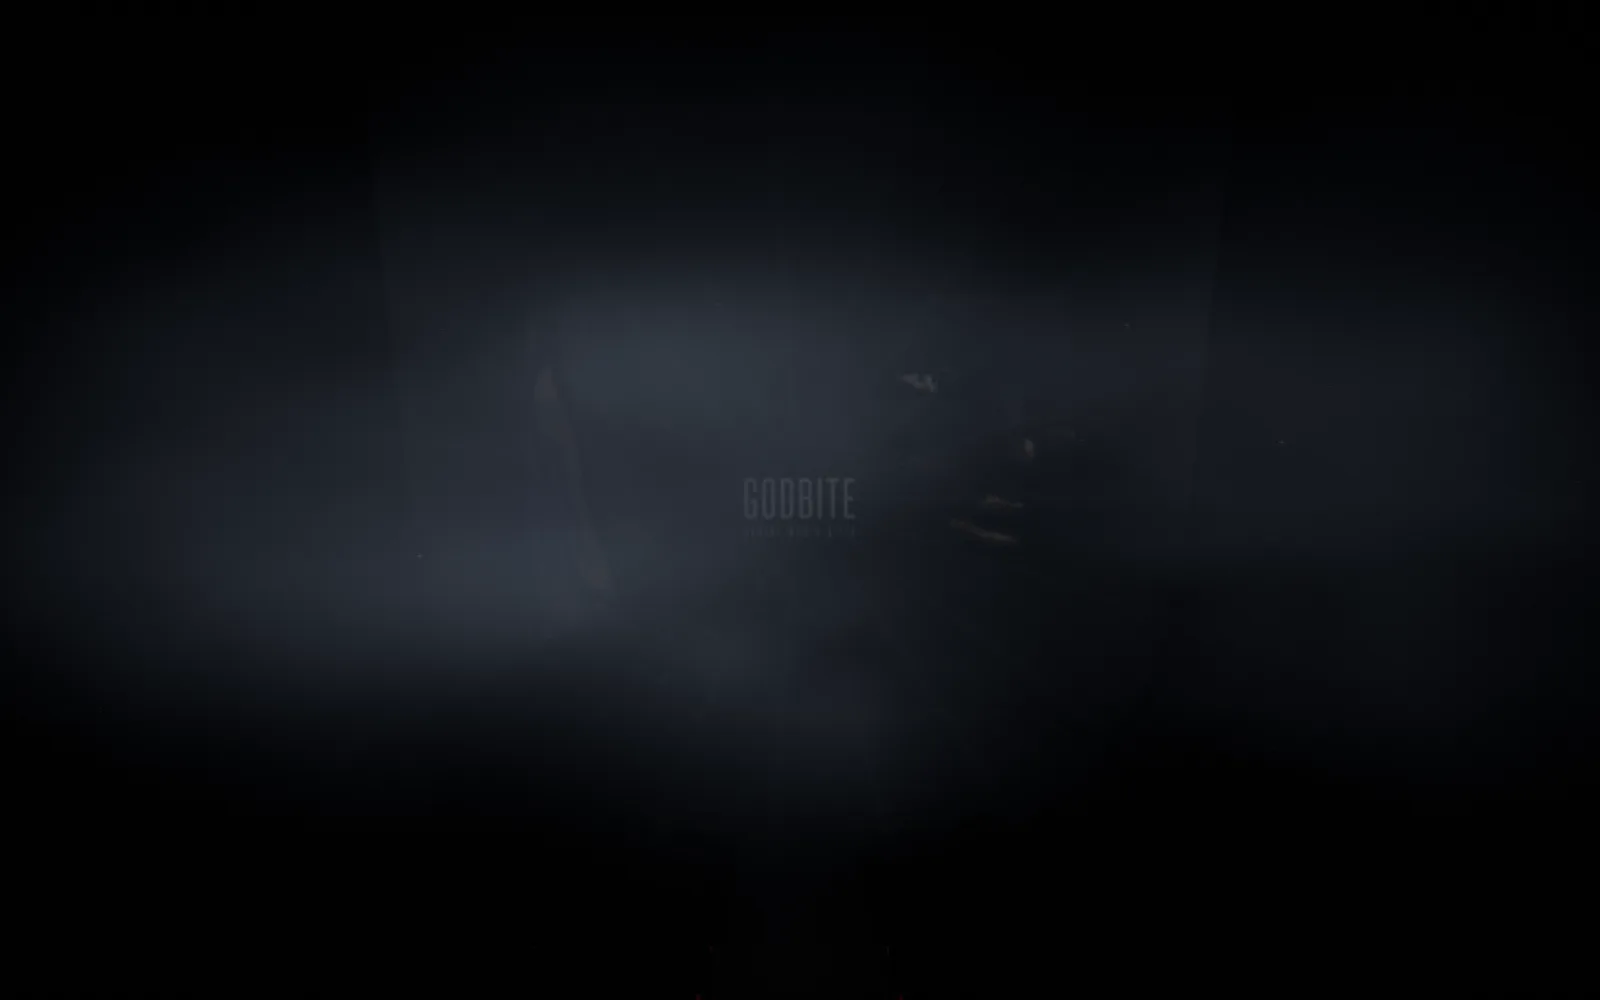
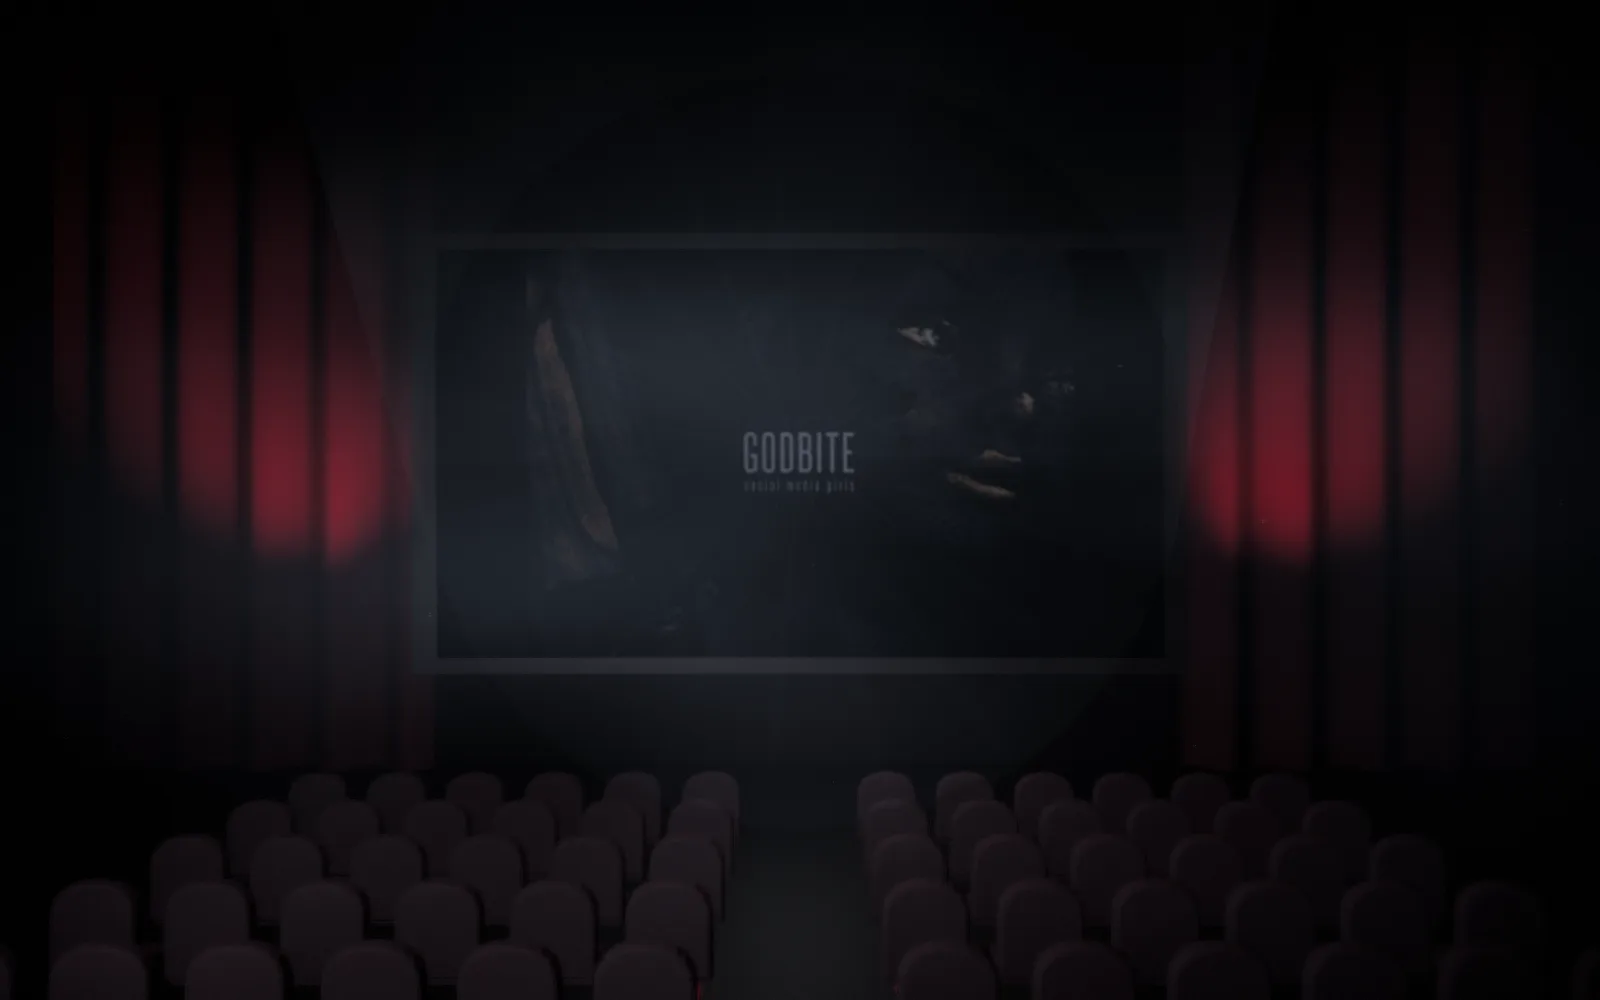
Reveal the cinema and animate the signal threads organically

diff --git a/src/world.ts b/src/world.ts
@@ -44,6 +44,24 @@ const dustFragment = /* glsl */ `
   void main(){float r=length(gl_PointCoord-.5);gl_FragColor=vec4(.67,.72,.82,(1.-smoothstep(.1,.5,r))*vAlpha);}
 `;
 
+const threadVertex = /* glsl */ `
+  uniform float uTime, uPhase, uDrift;
+  varying float vPresence;
+  void main(){
+    vec3 p=position;
+    float travel=p.z*.22+p.x*.14;
+    p.x+=(sin(uTime*.16+uPhase+travel)*.75+sin(uTime*.09+p.y*.21+uPhase)*.42)*uDrift;
+    p.y+=cos(uTime*.13+uPhase*1.3+p.x*.19)*.48*uDrift;
+    p.z+=sin(uTime*.11+uPhase+p.y*.17)*.65*uDrift;
+    vPresence=.76+sin(uTime*.18+uPhase+p.x*.09)*.24;
+    gl_Position=projectionMatrix*modelViewMatrix*vec4(p,1.);
+  }
+`;
+const threadFragment = /* glsl */ `
+  uniform vec3 uColor; uniform float uOpacity; varying float vPresence;
+  void main(){gl_FragColor=vec4(uColor,uOpacity*vPresence);}
+`;
+
 export interface WorldOptions {
   canvas: HTMLCanvasElement;
   onFailure: () => void;
@@ -53,8 +71,8 @@ export class World {
   private renderer: THREE.WebGLRenderer;
   private lens: CinematicLens;
   private ritualGlow = new THREE.PointLight('#b10c2d', 75, 38, 1.7);
-  private cinemaWash = new THREE.SpotLight('#8f122e', 220, 60, .65, 1, 1.8);
-  private screenGlow = new THREE.PointLight('#a0abb7', 40, 40, 1.8);
+  private cinemaWash = new THREE.SpotLight('#a53e52', 780, 60, .95, 1, 1.8);
+  private screenGlow = new THREE.PointLight('#a0abb7', 95, 40, 1.8);
   private scene = new THREE.Scene();
   private camera = new THREE.PerspectiveCamera(44, innerWidth / innerHeight, .1, 210);
   private forest = new THREE.Group();
@@ -270,7 +288,7 @@ export class World {
     frame.position.set(0,7,0);this.cinema.add(frame);
     const screen=new THREE.Mesh(new THREE.PlaneGeometry(16,9),new THREE.MeshBasicMaterial({color:'#6b717b'}));
     screen.position.set(0,7,.2);this.cinema.add(screen);this.screens.push(screen);
-    const curtainMaterial=new THREE.MeshStandardMaterial({color:'#21030d',roughness:.96});
+    const curtainMaterial=new THREE.MeshStandardMaterial({color:'#47111f',roughness:.96});
     for(const x of [-12.4,12.4]){
       const geometry=new THREE.PlaneGeometry(8.4,22,64,1);
       const positions=geometry.attributes.position;
@@ -278,13 +296,19 @@ export class World {
       geometry.computeVertexNormals();
       const curtain=new THREE.Mesh(geometry,curtainMaterial);curtain.position.set(x,8,-.2);this.cinema.add(curtain);
     }
+    // Low side light catches velvet folds without flattening the auditorium.
+    for(const x of [-11.5,11.5]){
+      const glow=new THREE.SpotLight('#bf3654',520,32,.5,1,1.55);
+      glow.position.set(Math.sign(x)*7.8,3.2,4.2);glow.target.position.set(x,8,-.2);
+      this.cinema.add(glow,glow.target);
+    }
     const backWall=new THREE.Mesh(new THREE.PlaneGeometry(40,22),new THREE.MeshStandardMaterial({color:'#0b0608',roughness:1}));
     backWall.position.set(0,8,-.7);this.cinema.add(backWall);
     const shape=new THREE.Shape();
     shape.moveTo(-.44,0);shape.lineTo(.44,0);shape.lineTo(.44,.65);
     shape.quadraticCurveTo(.44,1,0,1);shape.quadraticCurveTo(-.44,1,-.44,.65);shape.closePath();
     const backGeometry=new THREE.ExtrudeGeometry(shape,{depth:.14,bevelEnabled:true,bevelThickness:.05,bevelSize:.05,bevelSegments:2,steps:1,curveSegments:5});
-    const seatsMaterial=new THREE.MeshStandardMaterial({color:'#070408',roughness:.9});
+    const seatsMaterial=new THREE.MeshStandardMaterial({color:'#281019',roughness:.88});
     const backrests=new THREE.InstancedMesh(backGeometry,seatsMaterial,84);
     const cushions=new THREE.InstancedMesh(new THREE.BoxGeometry(.88,.16,.85),seatsMaterial,84);
     const object=new THREE.Object3D();let count=0;
@@ -296,6 +320,9 @@ export class World {
       }
     }
     this.cinema.add(backrests,cushions);
+    const seatRim=new THREE.SpotLight('#a29dac',1050,40,.95,1,1.45);
+    seatRim.position.set(-8,7,25);seatRim.target.position.set(1,1,11);
+    this.cinema.add(seatRim,seatRim.target);
     for(const x of [-1.2,1.2]){
       const aisle=new THREE.Mesh(new THREE.BoxGeometry(.025,.018,23),new THREE.MeshBasicMaterial({color:'#a5293c'}));
       aisle.position.set(x,.02,15);this.cinema.add(aisle);
@@ -306,7 +333,7 @@ export class World {
     const beam=new THREE.Mesh(new THREE.CylinderGeometry(.05,8.5,28,24,1,true),beamMaterial);
     beam.position.set(0,7,14);beam.rotation.x=Math.PI/2;this.cinema.add(beam);
     for(let i=0;i<3;i++){
-      const mist=new THREE.Mesh(new THREE.PlaneGeometry(33,10),this.fogMaterial('#667388',.21));
+      const mist=new THREE.Mesh(new THREE.PlaneGeometry(33,10),this.fogMaterial('#667388',.10));
       mist.position.set(0,6,6+i*5);this.cinema.add(mist);
     }
     return beam;
@@ -322,8 +349,16 @@ export class World {
         points.push(new THREE.Vector3(Math.cos(angle)*radius+(random()-.5)*3,Math.sin(angle)*radius*.6+6,-random()*12));
       }
       const curve=new THREE.CatmullRomCurve3(points);
-      const thread=new THREE.Line(new THREE.BufferGeometry().setFromPoints(curve.getPoints(80)),new THREE.LineBasicMaterial({color:i%4===0?'#a5092c':'#4c5063',transparent:true,opacity:i%4===0?.16:.055}));
-      this.signal.add(thread);
+      const material=new THREE.ShaderMaterial({
+        vertexShader:threadVertex,fragmentShader:threadFragment,transparent:true,depthWrite:false,
+        uniforms:{
+          uTime:{value:0},uPhase:{value:phase},uDrift:{value:.65+random()*.8},
+          uColor:{value:new THREE.Color(i%4===0?'#c22f51':'#b3acb1')},uOpacity:{value:i%4===0?.48:.23},
+        },
+      });
+      const thread=new THREE.Line(new THREE.BufferGeometry().setFromPoints(curve.getPoints(80)),material);
+      thread.frustumCulled=false;
+      this.timeMaterials.push(material);this.signal.add(thread);
     }
     const blade=new THREE.Mesh(new THREE.PlaneGeometry(.065,20),new THREE.MeshBasicMaterial({color:'#dc2442',toneMapped:false}));
     blade.position.set(0,8,-13);this.signal.add(blade);
@@ -412,10 +447,10 @@ export class World {
     const positions=[
       new THREE.Vector3(0,3.1,16),
       new THREE.Vector3(mobile?0:5.5,mobile?4.4:4.8,mobile?-23:-27),
-      new THREE.Vector3(0,4.6,mobile?-76:-73),
+      new THREE.Vector3(0,mobile?4.2:6.0,mobile?-72:-73),
       new THREE.Vector3(0,5,-125),
     ];
-    const targets=[new THREE.Vector3(0,5,-18),new THREE.Vector3(0,3.4,-48),new THREE.Vector3(0,7,-100),new THREE.Vector3(0,6,-150)];
+    const targets=[new THREE.Vector3(0,5,-18),new THREE.Vector3(0,3.4,-48),new THREE.Vector3(0,mobile?3.9:6,-100),new THREE.Vector3(0,6,-150)];
     this.camera.position.lerpVectors(positions[segment],positions[segment+1],fraction);
     const target=new THREE.Vector3().lerpVectors(targets[segment],targets[segment+1],fraction);
     target.x+=this.pointer.x*.85;target.y-=this.pointer.y*.45;
@@ -425,7 +460,7 @@ export class World {
       +Math.pow(Math.max(0,Math.sin(this.timer*3.1)),8)*.15;
     const fog=this.scene.fog as THREE.FogExp2;
     fog.color.set('#10131b').lerp(new THREE.Color('#030207'),smooth(p,.45,1.75));
-    fog.density=THREE.MathUtils.lerp(.061,.036,smooth(p,.65,1.8))*(1+Math.sin(this.timer*.12)*.07);
+    fog.density=THREE.MathUtils.lerp(.061,.036,smooth(p,.65,1.8))*THREE.MathUtils.lerp(1,.5,smooth(p,1.55,1.98))*(1+Math.sin(this.timer*.12)*.07);
     this.whiteLight.intensity=620*forestFade*(.64+breath*.48);
     this.whiteLight.target.position.set(Math.sin(this.timer*.085)*12,3,-27+Math.sin(this.timer*.12)*4);
     this.redLight.intensity=150*forestFade*breath;
@@ -434,15 +469,16 @@ export class World {
       const reveal=.28+Math.pow(Math.max(0,Math.sin(this.timer*.15+index*.92)),4)*.19;
       material.color.setScalar(this.hoveredRelease===index?.85:reveal);
     });
-    this.cinemaWash.intensity=170*(.65+breath*.35);
-    this.screenGlow.intensity=45*(.85+Math.sin(this.timer*.91)*.08);
+    this.cinemaWash.intensity=780*(.8+breath*.2);
+    this.screenGlow.intensity=95*(.93+Math.sin(this.timer*.91)*.05);
     this.aperture.visible=p<.72;
     this.ritual.scale.setScalar(mobile?.58:1);
+    this.cinema.scale.setScalar(mobile?.7:1);
     this.forest.visible=p<1.75;this.ritual.visible=p>.1 && p<1.9;this.cinema.visible=p>1.3 && p<2.65;this.signal.visible=p>2.25;
     this.signal.rotation.z=Math.sin(this.timer*.035)*.025;
-    (this.beam.material as THREE.MeshBasicMaterial).opacity=.007+breath*.004;
+    (this.beam.material as THREE.MeshBasicMaterial).opacity=.012+breath*.006;
     const light=p<.7?new THREE.Vector3(0,4,-25):p<1.6?new THREE.Vector3(0,3,-47)
-      :p<2.45?new THREE.Vector3(0,7,-100):new THREE.Vector3(0,8,-164);
+      :p<2.45?new THREE.Vector3(0,mobile?4.9:7,-100):new THREE.Vector3(0,8,-164);
     this.lens.render(this.scene,this.camera,this.timer,p,light,breath);
   }
   private render=(now: number)=>{

diff --git a/src/style.css b/src/style.css
@@ -35,3 +35,7 @@ body[data-sound=waiting] .sound-bars i,body[data-sound=off] .sound-bars i,body[d
 body.motion-paused .world-shade:before,body.motion-paused .film-grain{animation-play-state:paused}
 @keyframes exhale{0%{opacity:.22;transform:translate3d(-1%,0,0) scale(1)}55%{opacity:.7}100%{opacity:.35;transform:translate3d(1%,1%,0) scale(1.04)}}
 @media(max-width:800px){.sound-hint{top:72px;max-width:182px;font-size:7px}.world-shade{background:linear-gradient(180deg,rgba(0,0,3,.35),transparent 27%,transparent 58%,rgba(0,0,3,.86))}}
+
+
+/* Keep the auditorium readable through the lower part of the frame. */
+body[data-chapter=cinema] .world-shade{background:linear-gradient(180deg,rgba(0,0,3,.4),transparent 26%,transparent 60%,rgba(0,0,3,.48)),radial-gradient(ellipse at 50% 42%,transparent 25%,rgba(0,0,4,.3) 100%)}

diff --git a/src/cinematic.ts b/src/cinematic.ts
@@ -56,8 +56,9 @@ const film = /* glsl */ `
     float curtain=cloud(vUv*vec2(2.9,3.7)-flow*.6+4.3);
     c*=1.-smoothstep(.34,.83,curtain)*.38;
     c+=vec3(.013,.016,.021)*pow(vapor,2.)*(.7+uBreath*.3);
+    float auditorium=smoothstep(1.65,1.98,uJourney)*(1.-smoothstep(2.3,2.65,uJourney));
     float vignette=1.-smoothstep(.16,.76,length(center*vec2(.82,1.)));
-    c*=mix(.075,1.,pow(vignette,1.35));
+    c*=mix(mix(.075,.22,auditorium),1.,pow(vignette,mix(1.35,1.0,auditorium)));
     float crossing=pow(sin(fract(uJourney)*3.14159265),4.);
     c*=1.-crossing*.4;
     gl_FragColor=vec4(max(c,vec3(0.)),1.);

diff --git a/src/main.ts b/src/main.ts
@@ -189,6 +189,7 @@ function updateJourney() {
     sections[i].setAttribute('aria-hidden',String(i!==index));
   });
   currentChapter=index;
+  document.body.dataset.chapter=chapters[index];
   $('#chapter-name').textContent=copy[language][chapterKeys[index]];
   $('#chapter-number').textContent=String(index+1).padStart(2,'0');
   $('#position-fill').style.width=(p/3*100)+'%';

diff --git a/README.md b/README.md
@@ -41,6 +41,6 @@ The canonical URL, social metadata, sitemap and robots file use that address. Up
 
 ## Atmosphere
 
-The world renders through a custom cinematic diffusion pipeline: soft focus, low-resolution halation, drifting haze, dark color grading and a vignette. Direct lighting is sparse and moving; foreground mist hides tree, stone and seat edges. HTML remains sharp and readable. Reduced-motion and unsupported-WebGL visitors receive captured frames from the same darker scenery.
+The world renders through a custom cinematic diffusion pipeline: soft focus, low-resolution halation, drifting haze, dark color grading and a vignette. Direct lighting is sparse and moving; foreground mist hides tree, stone and seat edges. Velvet curtains catch red side light, while a soft rear wash reveals the cinema seats. Signal threads deform independently with slow traveling waves in three dimensions. HTML remains sharp and readable. Reduced-motion and unsupported-WebGL visitors receive captured frames from the same darker scenery.
 
 Ambient synthesis uses two slow pressure waves, an irregular double pulse, detuned low drones, moving filtered air and a long stereo reverb. It has no audio downloads. Its AudioContext respects browser autoplay restrictions; a waiting hint explains the first-interaction requirement.
